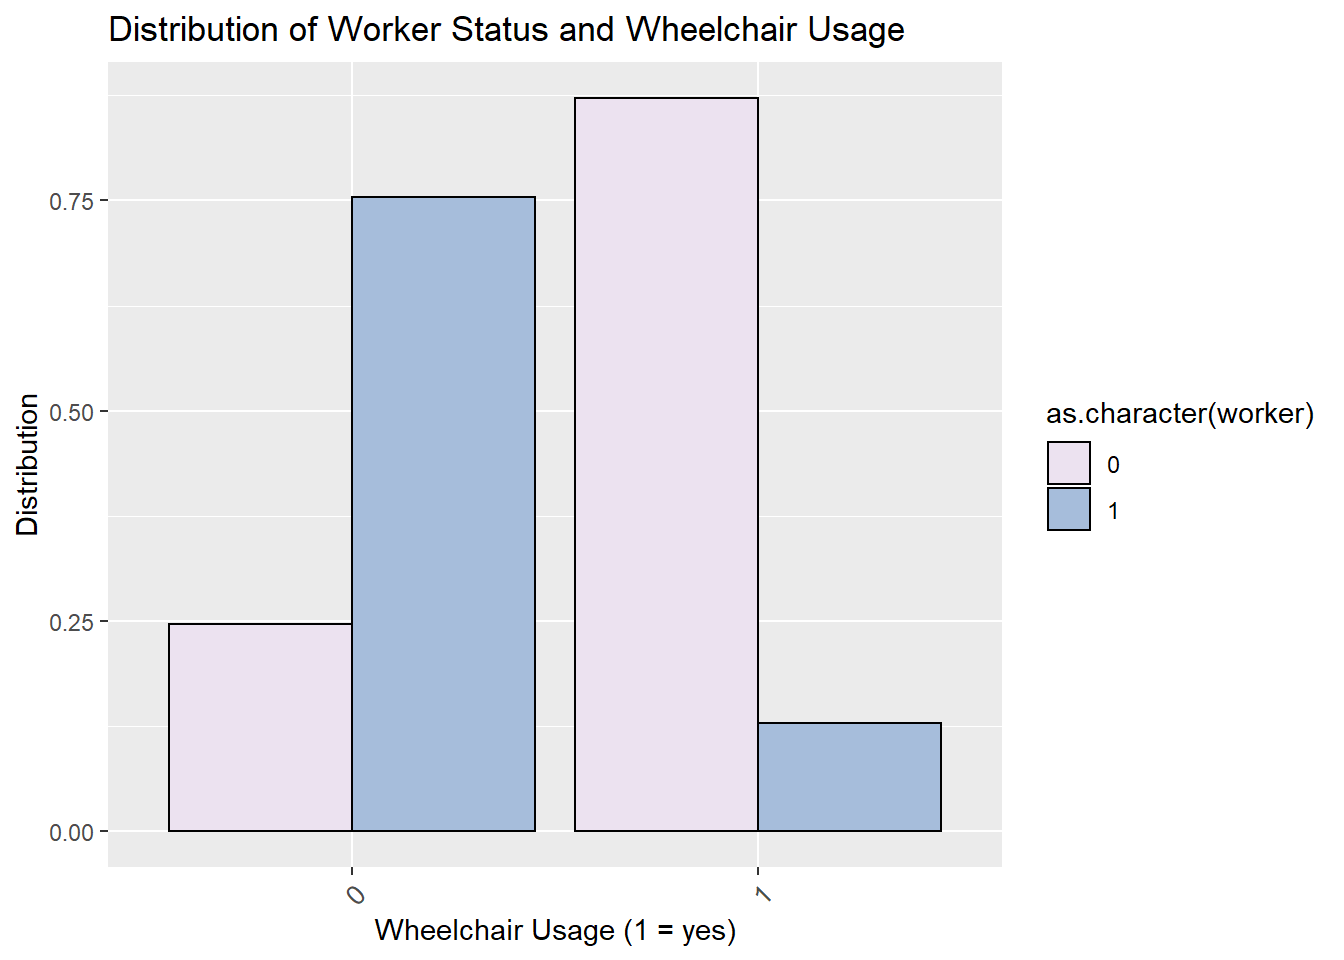
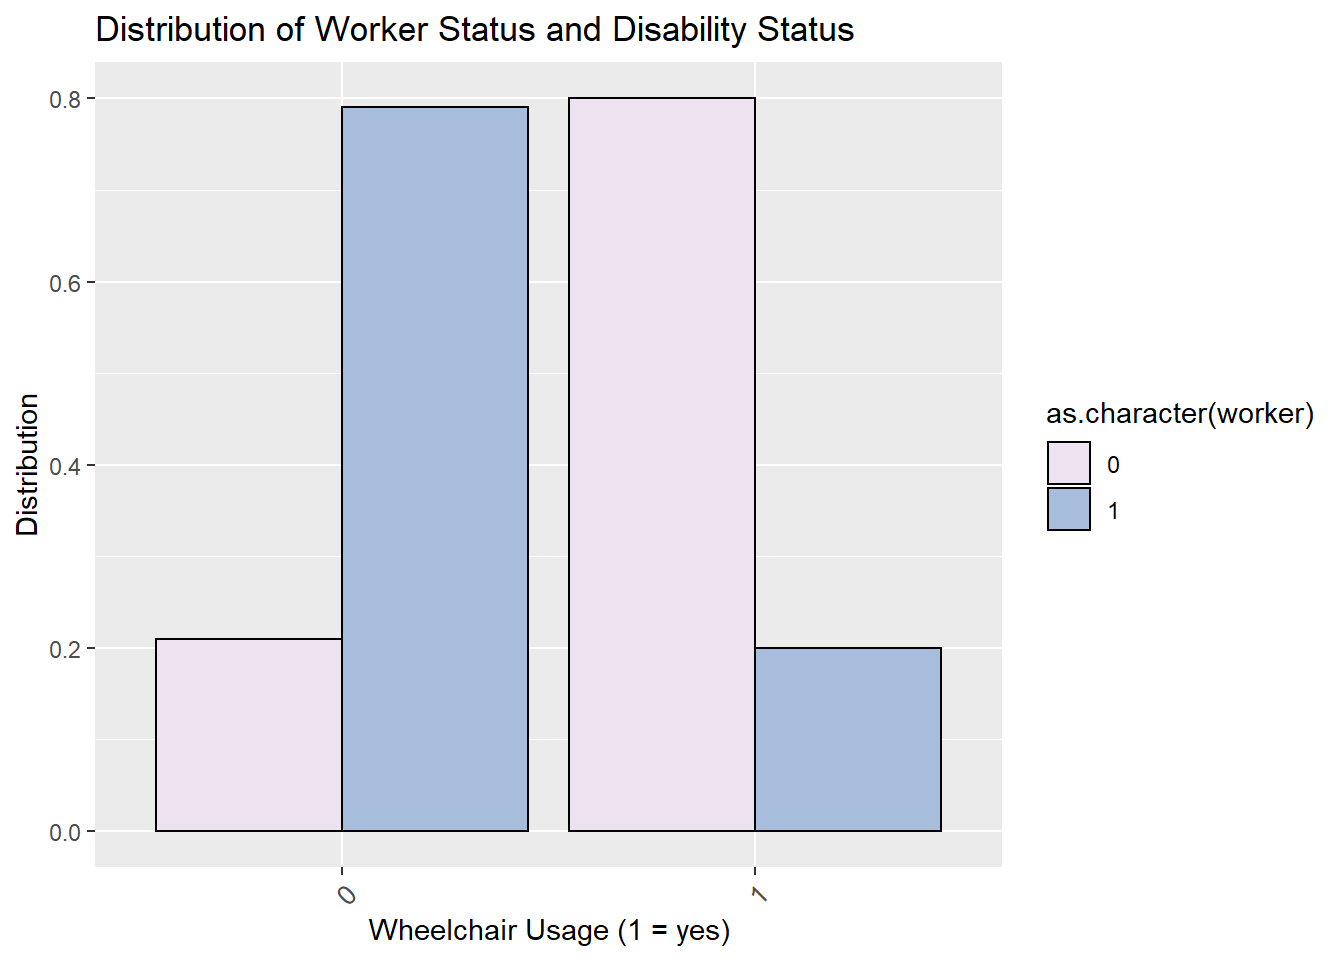
Add new tables to disability

diff --git a/docs/02_variables.html b/docs/02_variables.html
@@ -325,7 +325,7 @@ $(document).ready(function () {
 
 <div id="summary" class="section level2">
 <h2>Summary</h2>
-<p>It is obvious that by having a wheelchair, liklihood of unemployment is much greater. However, other variables may be the cause of unemployment. Below is a summary table of the other variables we will consider in our model.</p>
+<p>There are multiple variables from the NHTS data set that might effect employment instead of disability status. However, we want to see if wheelchair users are effected differently than disability in general. Below is a summary table of the other variables we will consider in our model. Table 1 compares the disabled population and Table 2 compares the wheelchair user population.</p>
 <pre class="r"><code>#summary table of disabled population
 mydata %&gt;%
   group_by(worker, disability) %&gt;%
@@ -341,8 +341,8 @@ mydata %&gt;%
   mutate(dist = percent(count/sum(count), accuracy = 0.1)) %&gt;%
   select(-count) %&gt;%
   datatable()</code></pre>
-<div id="htmlwidget-ada54765017aa0a52376" style="width:100%;height:auto;" class="datatables html-widget"></div>
-<script type="application/json" data-for="htmlwidget-ada54765017aa0a52376">{"x":{"filter":"none","data":[["1","2","3","4"],[0,0,1,1],[0,1,0,1],[29304,7722,100724,2160],[50.4451269451269,53.4255374255374,45.833316786466,50.3263888888889],[62500,20000,87500,62500],[0.342274092274092,0.422299922299922,0.504785354036774,0.419444444444444],[0,0,0.120914578452007,0.179166666666667],[0.732596232596233,0.543512043512044,0.833078511576188,0.750925925925926],[0.430657930657931,0.344988344988345,0.476569635836543,0.450462962962963],["19.4%","5.8%","73.4%","1.4%"]],"container":"<table class=\"display\">\n  <thead>\n    <tr>\n      <th> <\/th>\n      <th>worker<\/th>\n      <th>disability<\/th>\n      <th>respondents<\/th>\n      <th>av_age<\/th>\n      <th>median_inc<\/th>\n      <th>male<\/th>\n      <th>wrk_home<\/th>\n      <th>college_plus<\/th>\n      <th>pop_million<\/th>\n      <th>dist<\/th>\n    <\/tr>\n  <\/thead>\n<\/table>","options":{"columnDefs":[{"className":"dt-right","targets":[1,2,3,4,5,6,7,8,9]},{"orderable":false,"targets":0}],"order":[],"autoWidth":false,"orderClasses":false}},"evals":[],"jsHooks":[]}</script>
+<div id="htmlwidget-413568d9a479fa22f6ab" style="width:100%;height:auto;" class="datatables html-widget"></div>
+<script type="application/json" data-for="htmlwidget-413568d9a479fa22f6ab">{"x":{"filter":"none","data":[["1","2","3","4"],[0,0,1,1],[0,1,0,1],[29304,7722,100724,2160],[50.4451269451269,53.4255374255374,45.833316786466,50.3263888888889],[62500,20000,87500,62500],[0.342274092274092,0.422299922299922,0.504785354036774,0.419444444444444],[0,0,0.120914578452007,0.179166666666667],[0.732596232596233,0.543512043512044,0.833078511576188,0.750925925925926],[0.430657930657931,0.344988344988345,0.476569635836543,0.450462962962963],["19.4%","5.8%","73.4%","1.4%"]],"container":"<table class=\"display\">\n  <thead>\n    <tr>\n      <th> <\/th>\n      <th>worker<\/th>\n      <th>disability<\/th>\n      <th>respondents<\/th>\n      <th>av_age<\/th>\n      <th>median_inc<\/th>\n      <th>male<\/th>\n      <th>wrk_home<\/th>\n      <th>college_plus<\/th>\n      <th>pop_million<\/th>\n      <th>dist<\/th>\n    <\/tr>\n  <\/thead>\n<\/table>","options":{"columnDefs":[{"className":"dt-right","targets":[1,2,3,4,5,6,7,8,9]},{"orderable":false,"targets":0}],"order":[],"autoWidth":false,"orderClasses":false}},"evals":[],"jsHooks":[]}</script>
 <pre class="r"><code># summary table of wheelchair usage
 mydata %&gt;%
   group_by(worker, wheelchair) %&gt;%
@@ -358,8 +358,8 @@ mydata %&gt;%
   mutate(dist = percent(count/sum(count), accuracy = 0.1)) %&gt;%
   select(-count) %&gt;%
   datatable()</code></pre>
-<div id="htmlwidget-6f79818f2b75c7832445" style="width:100%;height:auto;" class="datatables html-widget"></div>
-<script type="application/json" data-for="htmlwidget-6f79818f2b75c7832445">{"x":{"filter":"none","data":[["1","2","3","4"],[0,0,1,1],[0,1,0,1],[35868,1158,102715,169],[50.9671294747407,54.1511226252159,45.9180645475344,51.7514792899408],[62500,30000,87500,62500],[0.357756217240995,0.396373056994819,0.503159226987295,0.402366863905325],[0,0,0.121919875383342,0.254437869822485],[0.698449871751979,0.529360967184801,0.831436499050772,0.781065088757396],[0.414603546336567,0.356649395509499,0.476103782310276,0.42603550295858],["24.4%","0.8%","74.7%","0.1%"]],"container":"<table class=\"display\">\n  <thead>\n    <tr>\n      <th> <\/th>\n      <th>worker<\/th>\n      <th>wheelchair<\/th>\n      <th>respondents<\/th>\n      <th>av_age<\/th>\n      <th>median_inc<\/th>\n      <th>male<\/th>\n      <th>wrk_home<\/th>\n      <th>college_plus<\/th>\n      <th>pop_million<\/th>\n      <th>dist<\/th>\n    <\/tr>\n  <\/thead>\n<\/table>","options":{"columnDefs":[{"className":"dt-right","targets":[1,2,3,4,5,6,7,8,9]},{"orderable":false,"targets":0}],"order":[],"autoWidth":false,"orderClasses":false}},"evals":[],"jsHooks":[]}</script>
+<div id="htmlwidget-f4ce458c3edee26ad334" style="width:100%;height:auto;" class="datatables html-widget"></div>
+<script type="application/json" data-for="htmlwidget-f4ce458c3edee26ad334">{"x":{"filter":"none","data":[["1","2","3","4"],[0,0,1,1],[0,1,0,1],[35868,1158,102715,169],[50.9671294747407,54.1511226252159,45.9180645475344,51.7514792899408],[62500,30000,87500,62500],[0.357756217240995,0.396373056994819,0.503159226987295,0.402366863905325],[0,0,0.121919875383342,0.254437869822485],[0.698449871751979,0.529360967184801,0.831436499050772,0.781065088757396],[0.414603546336567,0.356649395509499,0.476103782310276,0.42603550295858],["24.4%","0.8%","74.7%","0.1%"]],"container":"<table class=\"display\">\n  <thead>\n    <tr>\n      <th> <\/th>\n      <th>worker<\/th>\n      <th>wheelchair<\/th>\n      <th>respondents<\/th>\n      <th>av_age<\/th>\n      <th>median_inc<\/th>\n      <th>male<\/th>\n      <th>wrk_home<\/th>\n      <th>college_plus<\/th>\n      <th>pop_million<\/th>\n      <th>dist<\/th>\n    <\/tr>\n  <\/thead>\n<\/table>","options":{"columnDefs":[{"className":"dt-right","targets":[1,2,3,4,5,6,7,8,9]},{"orderable":false,"targets":0}],"order":[],"autoWidth":false,"orderClasses":false}},"evals":[],"jsHooks":[]}</script>
 </div>
 <div id="age" class="section level2">
 <h2>Age</h2>
@@ -377,7 +377,7 @@ mydata %&gt;%
   ggtitle(&quot;Wheelchair Status Distribution&quot;, subtitle = &quot;Wheelchair Usage for Every Age&quot;)</code></pre>
 <p><img src="02_variables_files/figure-html/unnamed-chunk-2-1.png" width="672" /></p>
 <p>Age is a continuous variable and is often used as a quadratic term. For example, likelihood of employment increases as you get older, lets say to about 50, but then for every year after that, likelihood tends to decrease. This would result in a negative quadtratic term.</p>
-<p>For our study, we will use age as a categorical term. In fact, we can make it a binary term as either older than a certain age (1) or younger than that age (0). To find the ideal age to set the binary variable, we ran a binary logistic regression model at every age and graphed the coefficients with both the main effect and the interaction term.</p>
+<p>For our study, we will use age as a categorical term. In fact, we can make it a binary term as either older than a certain age (1) or younger than that age (0). To find the ideal age to set the binary variable, we ran a binary logistic regression model at every age and graphed the coefficients with both the main effect and the interaction term. We will set the bar at 55 years.</p>
 <pre class="r"><code># turns age into a binary variable: older than x, 0 or 1
 coefficients &lt;- list()
 
@@ -412,7 +412,7 @@ dplyr::bind_rows(coefficients) %&gt;%
               alpha = 0.2) +
   geom_line(aes(color = interaction, linetype = interaction)) + 
   scale_color_manual(values = c(&quot;darkred&quot;, &quot;steelblue&quot;)) +
-  ggtitle(&quot;DAP ~ 1| age_bar&quot;, 
+  ggtitle(&quot;Worker ~ wheelchair * age_bar&quot;, 
           subtitle = &quot;Likelihood for employment OLDER than given age&quot;) +
   ylab(&quot;Coefficient&quot;) +
   xlab(&quot;Age&quot;)</code></pre>

diff --git a/docs/01_data.html b/docs/01_data.html
@@ -315,10 +315,11 @@ $(document).ready(function () {
 </div>
 
 
+<p>In this study, we will compare the effect of disability status and wheelchair status on worker status. We will use binomial regression and a data set from the 2017 National Household Travel Survey (NHTS).</p>
 <div id="the-national-household-travel-survey" class="section level2">
 <h2>The National Household Travel Survey</h2>
-<p>The National Household Travel Survey (NHTS) is conducted every 8-10 years or so, and samples nearly 300,000 americans to understand travel behavior. Each person answers questions about themselves and their household (i.e. employment status, income, age, gender etc.) and records information on their travel behavior each day of the study.</p>
-<p>Each respondant is asked if they have any kind of disability that limits their transportation. If they respond yes, then they are asked which kinds of medical devices they use (i.e. wheelchair, cane, seeing eye dog, etc.). From these responses, we can label each person as wheelchair dependent or not.</p>
+<p>The NHTS is conducted every 8-10 years or so, and samples nearly 300,000 americans to understand travel behavior. Each person answers questions about themselves and their household (i.e. employment status, income, age, gender etc.) and records information on their travel behavior each day of the study.</p>
+<p>Each respondant is also asked if they have any kind of disability that limits their transportation. If they respond yes, then they are asked which kinds of medical devices they use (i.e. wheelchair, cane, seeing eye dog, etc.). From these responses, we can label each person as disabled, wheelchair dependent, or neither.</p>
 <pre class="r"><code>mydata &lt;- nhts_persons %&gt;%
   select(houseid, personid, r_age, educ, r_sex, r_race, wtperfin, medcond,
          w_chair, w_scootr, w_mtrchr, worker, wrk_home, wkftpt) %&gt;%
@@ -364,10 +365,25 @@ mydata %&gt;% write_rds(&quot;data/mydata.rds&quot;)</code></pre>
 </div>
 <div id="wheelchair-status-and-labor-force-participation" class="section level2">
 <h2>Wheelchair Status and Labor Force Participation</h2>
-<p>This study will evaluate the effect of being limited to a wheelchair on participation in the labor force. As shown in the figure below, there is a major imbalance in the number of individuals limited to a wheelchair who are employed versus unemployed, but could that be because of their age or because of their educational attainment level, instead of their dependence to a wheelchair? We will use logistic regression and control for multiple variables to see how wheelchair useage affects employment. We will then compare these effects to the effect of disability in general on the labor force.</p>
+<p>This study will evaluate the effect of being disabled or limited to a wheelchair on participation in the labor force. As shown in the figure below, there is a major imbalance in the number of individuals who are disabled or limited to a wheelchair who are employed versus unemployed, but could that be because of their age or because of their educational attainment level, instead of their dependence to a wheelchair? We will use logistic regression and control for multiple variables to see how wheelchair useage affects employment. We will then compare these effects to the effect of disability in general on the labor force.</p>
 <pre class="r"><code># show plot of distribution (worker and wheelchair)
 mydata &lt;- read_rds(&quot;data/mydata.rds&quot;)
 
+# comparison for disability status
+mydata %&gt;%
+  group_by(worker, disability) %&gt;%
+  summarise(population = sum(wtperfin)) %&gt;%
+  group_by(disability) %&gt;%
+  mutate(distribution = population/sum(population)) %&gt;%
+  ggplot(aes(x = as.character(disability), y = distribution)) +
+  geom_col(aes(fill = as.character(worker)), colour = &quot;Black&quot;, position = &quot;dodge&quot;) +
+    ggtitle(&quot;Distribution of Worker Status and Disability Status&quot;) +
+    labs(x = &quot;Wheelchair Usage (1 = yes)&quot;, y = &quot;Distribution&quot;) +
+    scale_fill_brewer(palette = &quot;PuBuGn&quot;, direction = 2) + 
+    theme(axis.text.x = 
+            element_text(size  = 10, angle = 45, hjust = 1, vjust = 1))</code></pre>
+<p><img src="01_data_files/figure-html/unnamed-chunk-1-1.png" width="672" /></p>
+<pre class="r"><code># comparison for wheelchair users
 mydata %&gt;%
   group_by(worker, wheelchair) %&gt;%
   summarise(population = sum(wtperfin)) %&gt;%
@@ -380,8 +396,8 @@ mydata %&gt;%
     scale_fill_brewer(palette = &quot;PuBuGn&quot;, direction = 2) + 
     theme(axis.text.x = 
             element_text(size  = 10, angle = 45, hjust = 1, vjust = 1))</code></pre>
-<p><img src="01_data_files/figure-html/unnamed-chunk-1-1.png" width="672" /></p>
-<p>It is obvious that by having a wheelchair, liklihood of unemployment is much greater. However, other variables may be the cause of unemployment. Below is a summary table of the other variables we will consider in our model. The first compares the disabled population to the abled population, the second table compares the wheelchair user population to the able bodied population.</p>
+<p><img src="01_data_files/figure-html/unnamed-chunk-1-2.png" width="672" /></p>
+<p>It is obvious that by having a wheelchair or any kind of travel limiting disability, the liklihood of unemployment is much greater. However, other variables may be the cause of unemployment. Below is a summary table of the other variables we will consider in our model. The first compares the disabled population to the abled population, the second table compares the wheelchair user population to the able bodied population.</p>
 </div>
 
 

diff --git a/docs/03_disability.html b/docs/03_disability.html
@@ -321,11 +321,11 @@ $(document).ready(function () {
 <p>We performed a GLM with a Logit Link looking at the effect of having a travel limiting disability combined with education, sex, age, and income have on subjects participation in the workforce.</p>
 <p>Our results showed that all the effects were extremely significant.</p>
 <p>Our main goal is understanding the odds of being disabled have on being able to work. So to explore further we did a nominal logistic regression.</p>
-<p><img src="images/effectsummary2.PNG" /></p>
+<p><img src="images/newnom.PNG" /></p>
+<p><img src="images/parameterestimates3.PNG" /></p>
 <p>You can see that all the effects and interactions in the nominal logistic regression were significant with p values of almost all &lt;0.00001</p>
-<p><img src="images/parameterestimates2.PNG" /></p>
 <p>You can see that disability which is a binary response is significant, as well as all variable interactions with disability.</p>
-<p><img src="images/odds1.PNG" /> <img src="images/odds2.PNG" /> <img src="images/odds3.PNG" /></p>
+<p><img src="images/oddsratio.PNG" /></p>
 <p>Normal approximations used for ratio confidence limits effects: disability educ r_sex Tests and confidence intervals on odds ratios are Wald based.</p>
 <p>You can clearly see that if a subject has a travel limiting disability they are 5.6 times more likely to not be in the workforce than if they did not have the travel limiting disability. This comes with a prob&gt;Chisq of &lt;0.0001 so quite a significant odds ratio.</p>
 <p>This dataset includes other variables that we weren’t initially interested in. A total of nine variables could be used to explain workforce participation. So we performed a principle components analysis to see if there was a more straightforward way of explaining the response.</p>
@@ -343,12 +343,12 @@ $(document).ready(function () {
 <p>Scree plot showing the eigenvalues. The first six are all fairly similar with the first two components especially having higher values.</p>
 <p><img src="images/blue.PNG" /></p>
 <p>Formula for principle component analysis. It seems largely based on wheelchair, disability, family income and education.</p>
-<p><img src="images/nominallog.PNG" /></p>
+<p><img src="images/newnom.PNG" /></p>
 <p><img src="images/parameterestimates3.PNG" /></p>
 <p><img src="images/oddsratio.PNG" /></p>
 <p>We did a nominal linear regression with the six principle components. We found that all the components were significant.</p>
 <p>Looking at the first component, per unit change in PC1 subjects are 0.5 times more likely to not be in the workforce. PC2 says per each unit change subjects are 2.07 times more likely to not be in the workforce.</p>
-<p>This analysis was interesting but is not as clear cut as we would have hoped.</p>
+<p>This analysis was interesting but is not as clear cut as we would have hoped. We found that income isn’t significant and age is barely significant.</p>
 
 
 
